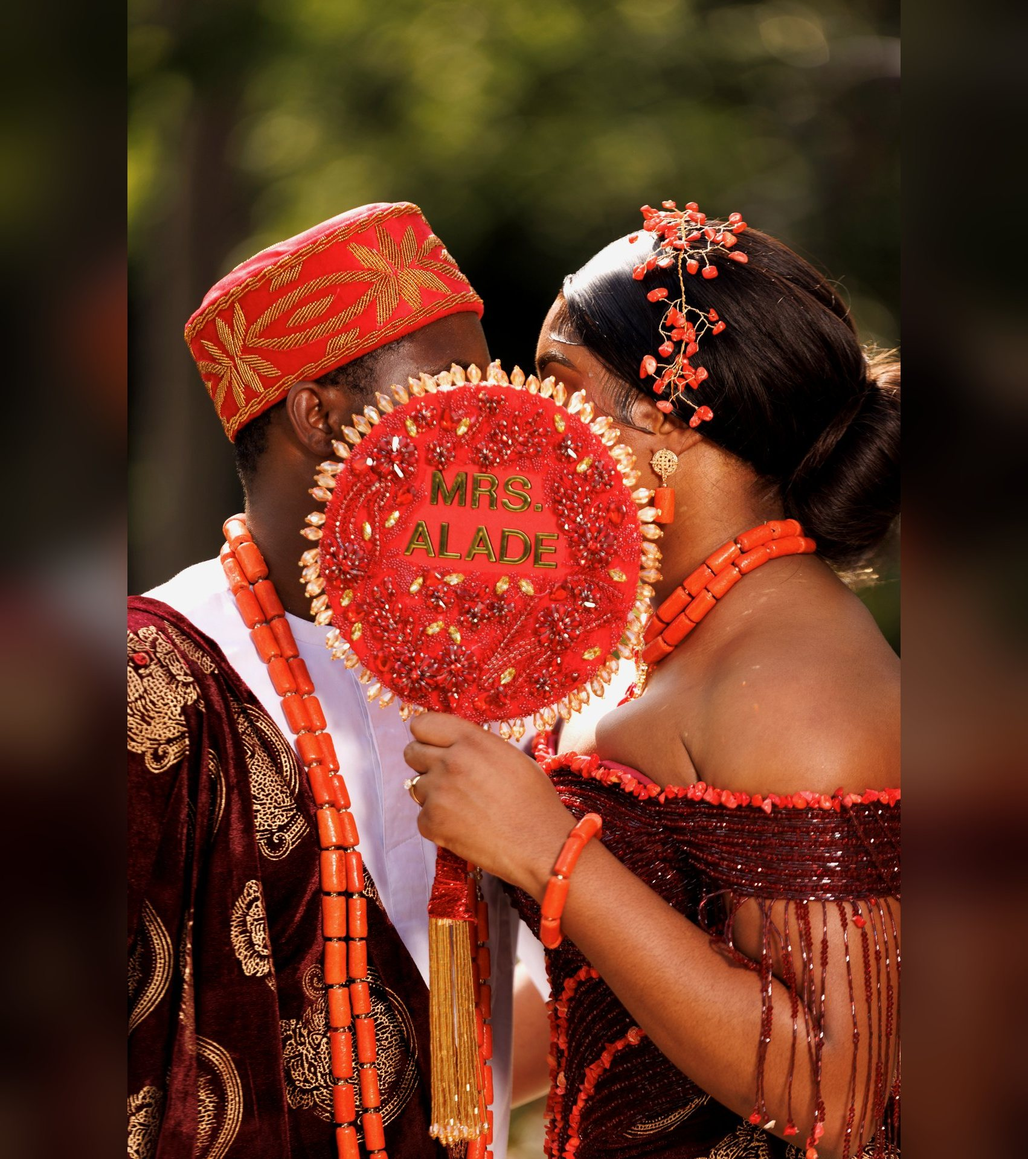
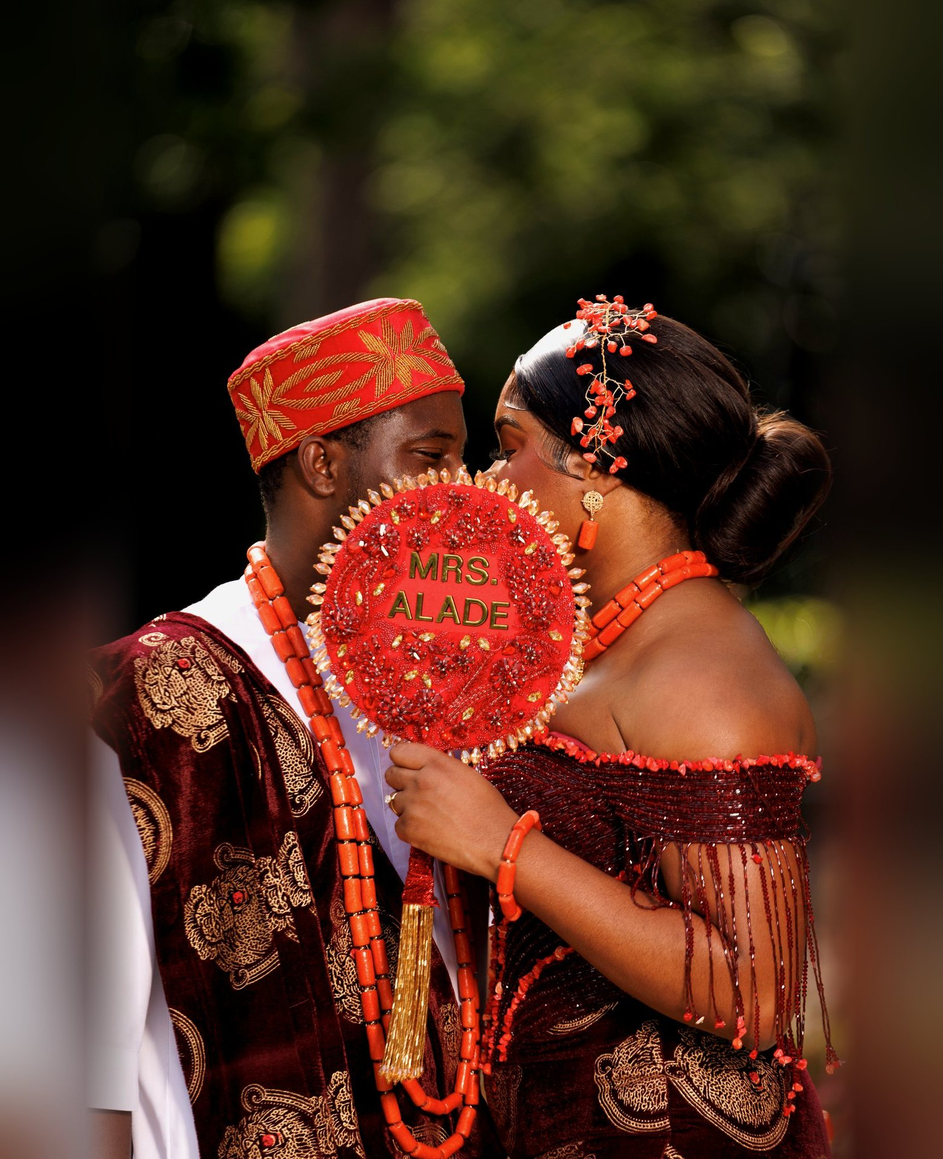
feat: new wider hero photo, graded with feathered canvas
Swapped in the wider-framed portrait (Im-55) — the couple sits smaller in
frame with real breathing room, so the fan and both faces read fully on
desktop. Same grade as before (contrast +14%, saturation +18%, slight
darken), canvas widened 22% with a heavily blurred stretch of its own edges
and the photo feathered into it, so the seam is invisible. ?v=6.

diff --git a/index.html b/index.html
@@ -155,7 +155,7 @@ nav.compact{padding:8px 20px}
 }
 
 /* HERO */
-#hero{min-height:100vh;display:flex;flex-direction:column;align-items:center;justify-content:center;text-align:center;padding:140px 32px 100px;position:relative;overflow:hidden;background-image:url('photos/hero.jpg?v=5');background-size:cover;background-position:center top}
+#hero{min-height:100vh;display:flex;flex-direction:column;align-items:center;justify-content:center;text-align:center;padding:140px 32px 100px;position:relative;overflow:hidden;background-image:url('photos/hero.jpg?v=6');background-size:cover;background-position:center top}
 #hero::before{content:'';position:absolute;inset:0;pointer-events:none;background:linear-gradient(to bottom,rgba(10,9,5,.55) 0%,rgba(10,9,5,.45) 50%,rgba(10,9,5,.62) 100%)}
 .hc{position:absolute;width:140px;height:140px;opacity:.22}
 .hc.tl{top:24px;left:24px}.hc.tr{top:24px;right:24px;transform:scaleX(-1)}
